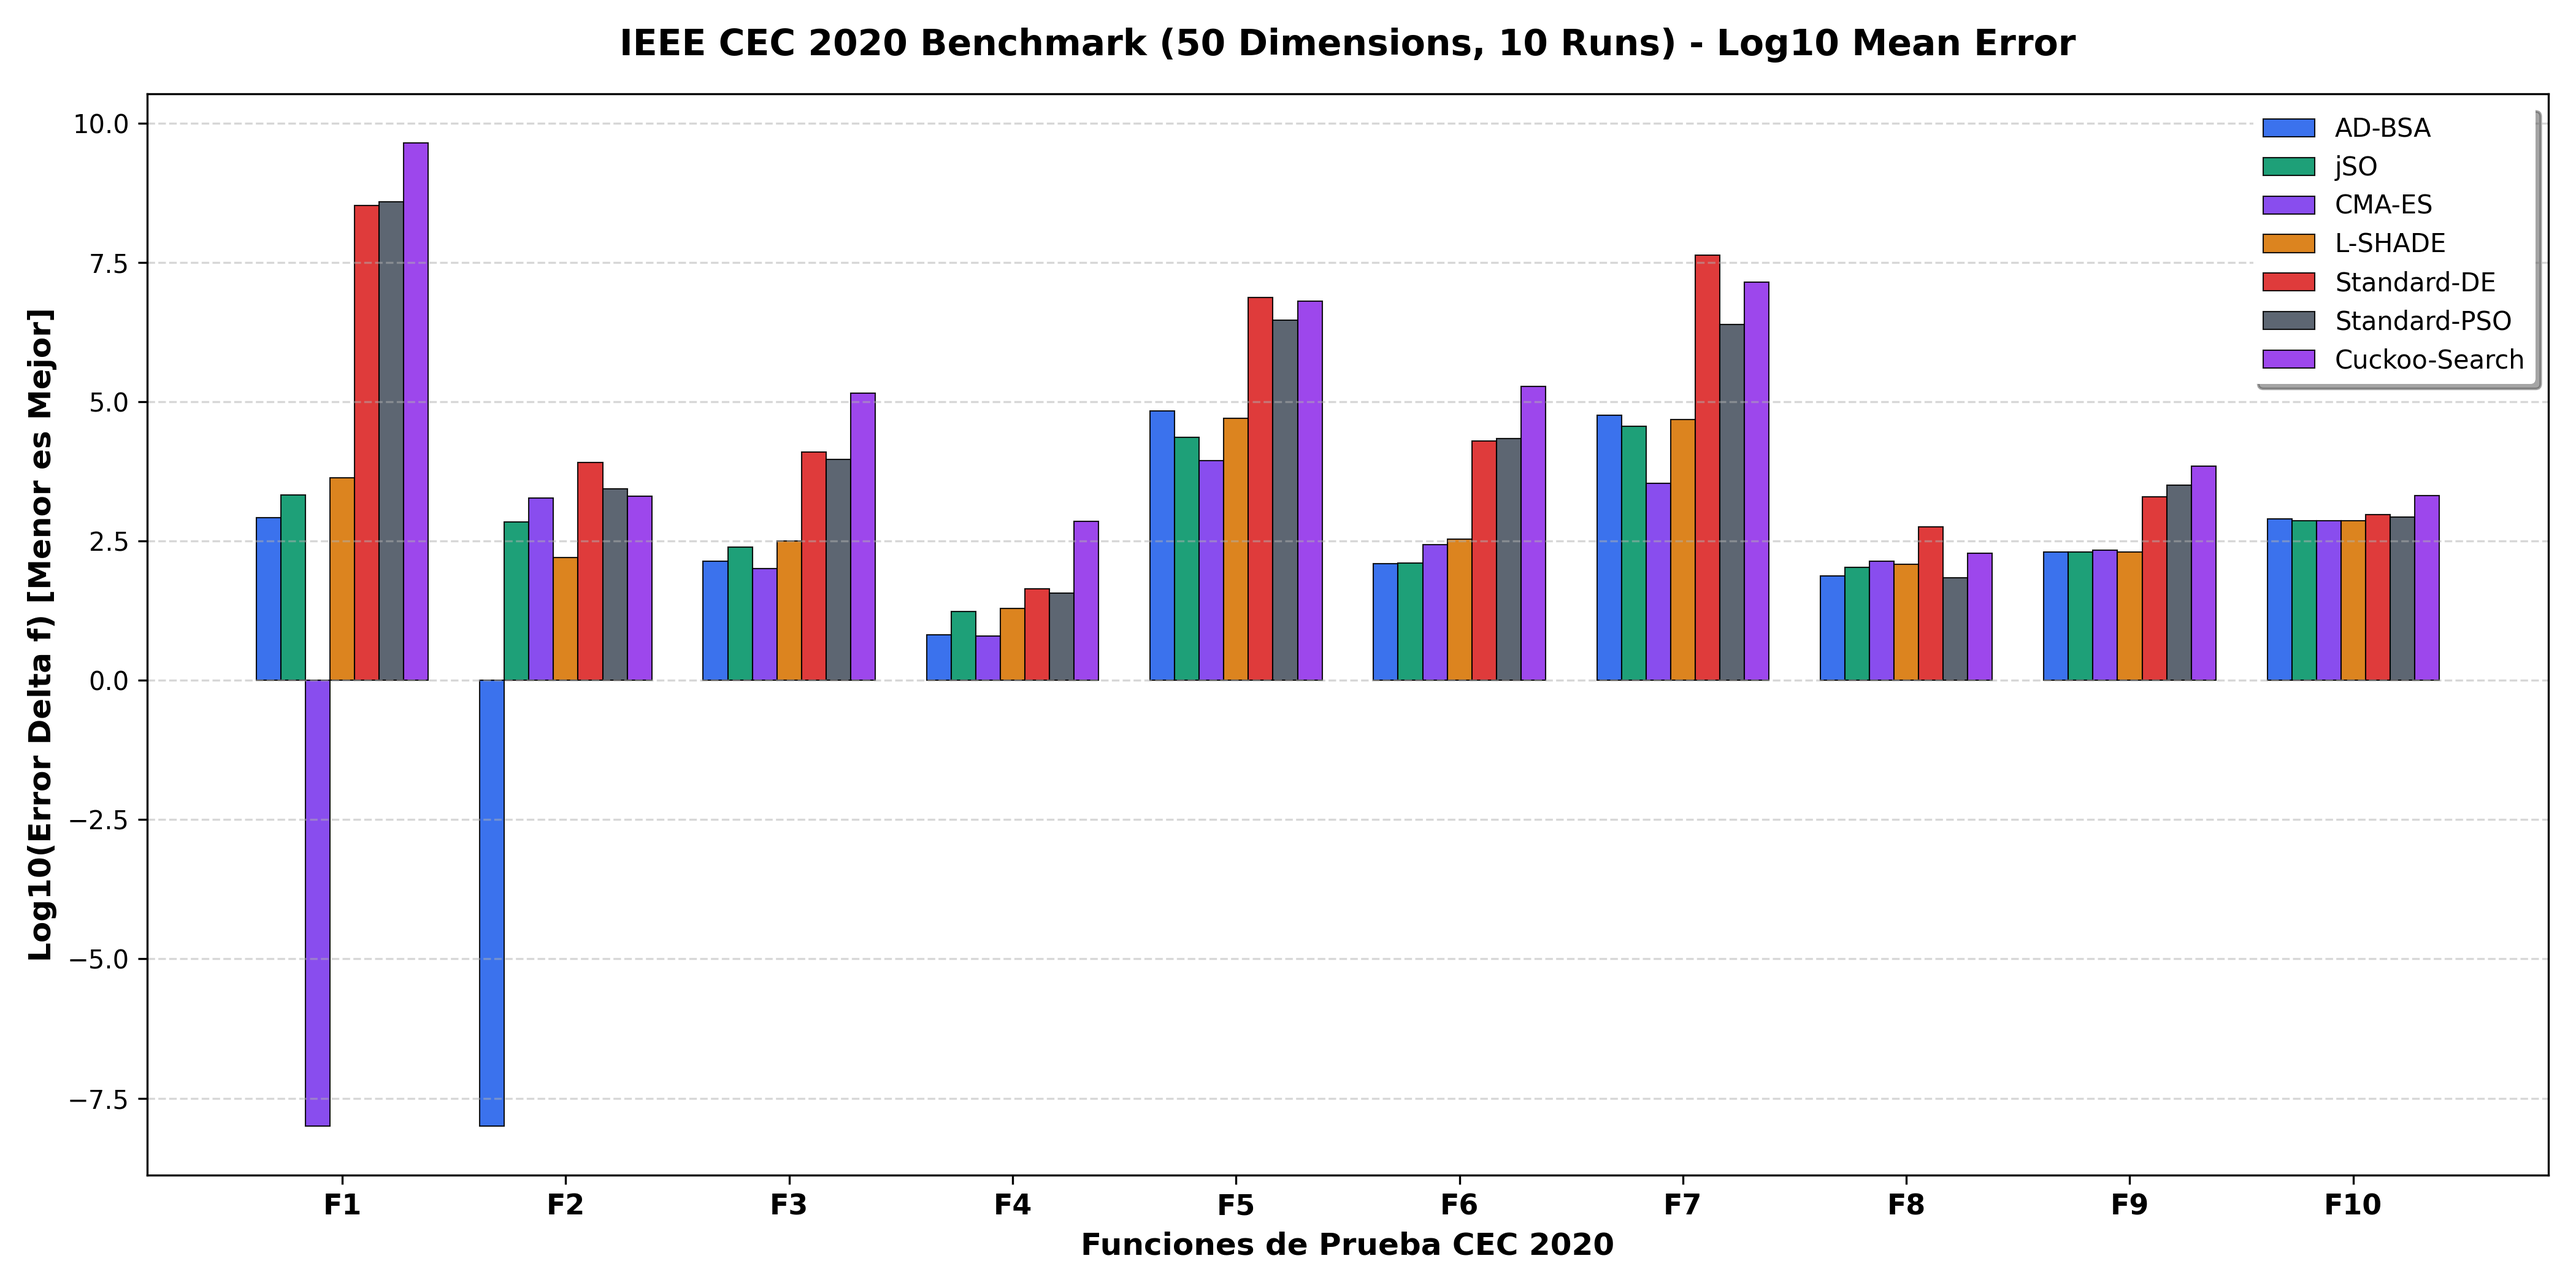
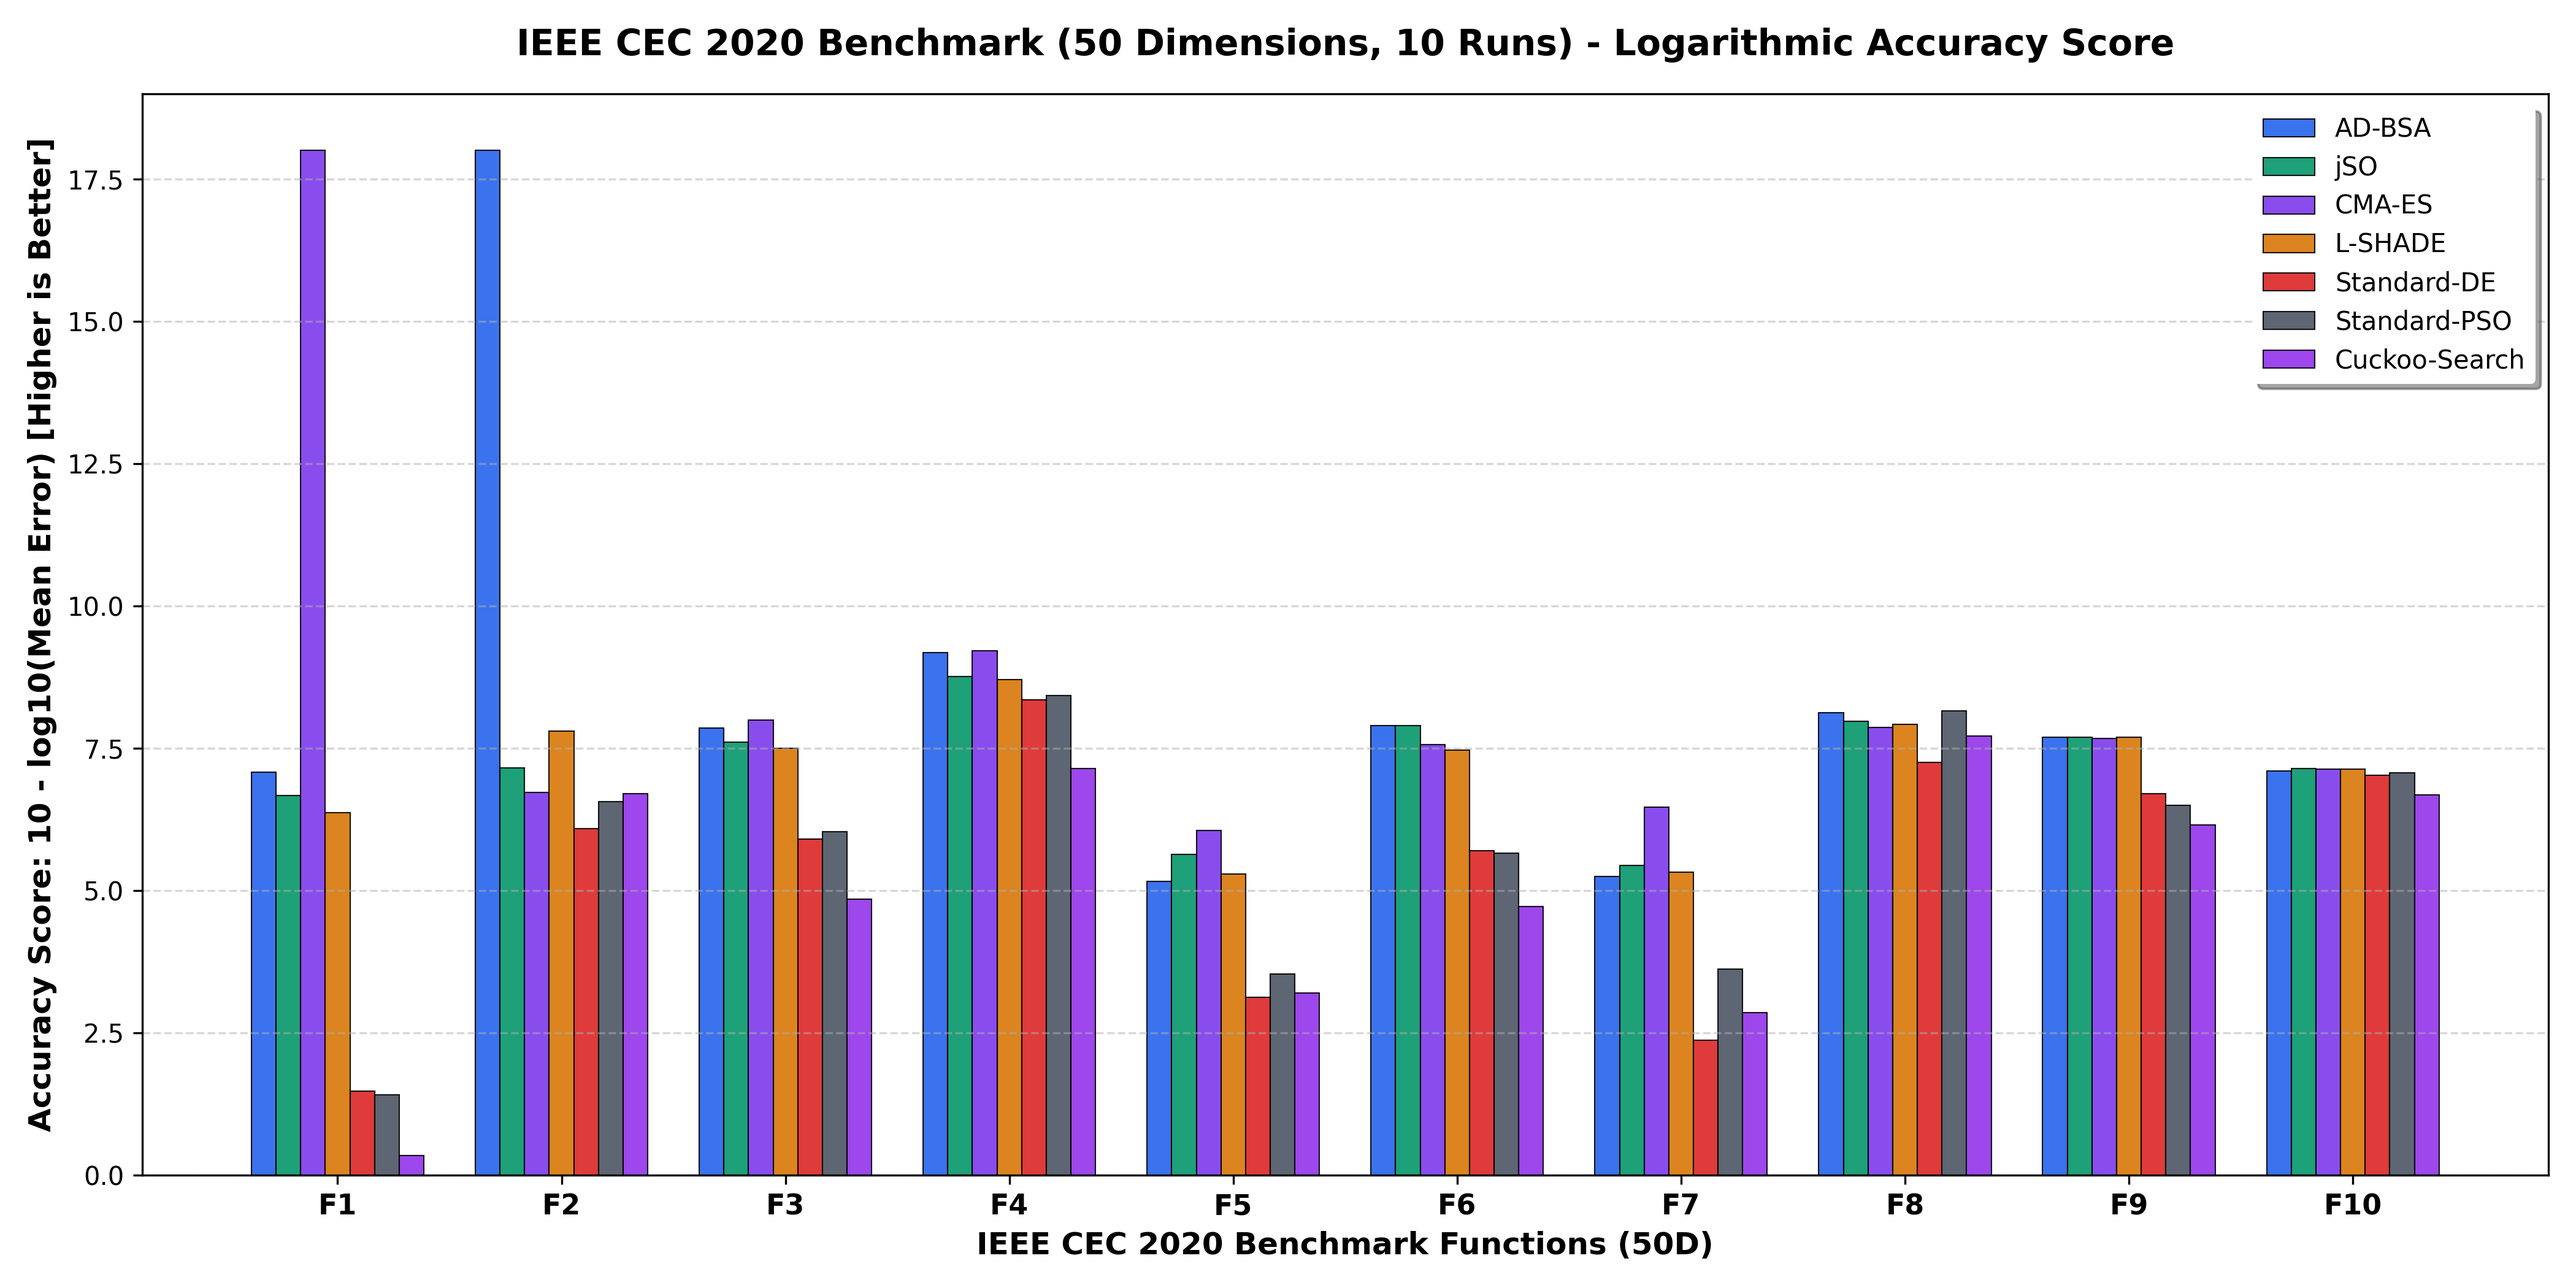
Charts: Invert CEC 2020 50D comparison plot to Logarithmic Accuracy Score capped at 0 (Higher is Better)

diff --git a/benchmarks/generate_cec2020_report.py b/benchmarks/generate_cec2020_report.py
@@ -99,16 +99,22 @@ def generate_comparison_plot(data: dict):
     x = np.arange(len(funcs))
 
     for i, (algo, color) in enumerate(zip(algos, colors)):
-        errors = [max(1e-8, data["summary_statistics"][f]["algorithms"][algo]["mean_error"]) for f in funcs]
-        log_errors = np.log10(errors)
+        scores = []
+        for f in funcs:
+            err = max(1e-8, data["summary_statistics"][f]["algorithms"][algo]["mean_error"])
+            # Inverted Log-Precision Metric: higher is better, strictly non-negative (clipped at 0)
+            # Optimal zero error (<= 1e-8) yields peak score of 18.0
+            score = max(0.0, 10.0 - np.log10(err))
+            scores.append(score)
         offset = (i - len(algos) / 2) * width + width / 2
-        ax.bar(x + offset, log_errors, width, label=algo, color=color, alpha=0.9, edgecolor="black", linewidth=0.5)
+        ax.bar(x + offset, scores, width, label=algo, color=color, alpha=0.9, edgecolor="black", linewidth=0.5)
 
-    ax.set_title(f"IEEE CEC 2020 Benchmark (50 Dimensions, {n_runs} Runs) - Log10 Mean Error", fontsize=14, fontweight="bold", pad=15)
-    ax.set_xlabel("Funciones de Prueba CEC 2020", fontsize=12, fontweight="bold")
-    ax.set_ylabel("Log10(Error Delta f) [Menor es Mejor]", fontsize=12, fontweight="bold")
+    ax.set_title(f"IEEE CEC 2020 Benchmark (50 Dimensions, {n_runs} Runs) - Logarithmic Accuracy Score", fontsize=14, fontweight="bold", pad=15)
+    ax.set_xlabel("IEEE CEC 2020 Benchmark Functions (50D)", fontsize=12, fontweight="bold")
+    ax.set_ylabel("Accuracy Score: 10 - log10(Mean Error) [Higher is Better]", fontsize=12, fontweight="bold")
     ax.set_xticks(x)
     ax.set_xticklabels(funcs, fontsize=11, fontweight="bold")
+    ax.set_ylim(bottom=0, top=19)
     ax.grid(axis="y", linestyle="--", alpha=0.5)
     ax.legend(frameon=True, facecolor="white", edgecolor="none", shadow=True, fontsize=10)
 

diff --git a/README.md b/README.md
@@ -30,7 +30,7 @@ $$\mathbf{v}_i = \mathbf{x}_i + \underbrace{F_{\text{safe}, i} \cdot (\mathbf{x}
 <p align="center">
   <img src="benchmarks/cec2020_50d_comparison.png" alt="IEEE CEC 2020 50D Benchmark Comparison" width="850"/>
   <br>
-  <em>Figure 1: Benchmark distribution on IEEE CEC 2020 (50 Dimensions, 50,000 NFEs) across canonical metaheuristics.</em>
+  <em>Figure 1: Logarithmic Accuracy Score on IEEE CEC 2020 (50 Dimensions, 50,000 NFEs, Higher is Better). Bars plot $\max(0, 10 - \log_{10}(\Delta f))$, where zero error reaches the peak ceiling of 18.0 and higher bars indicate superior convergence.</em>
 </p>
 
 ---
